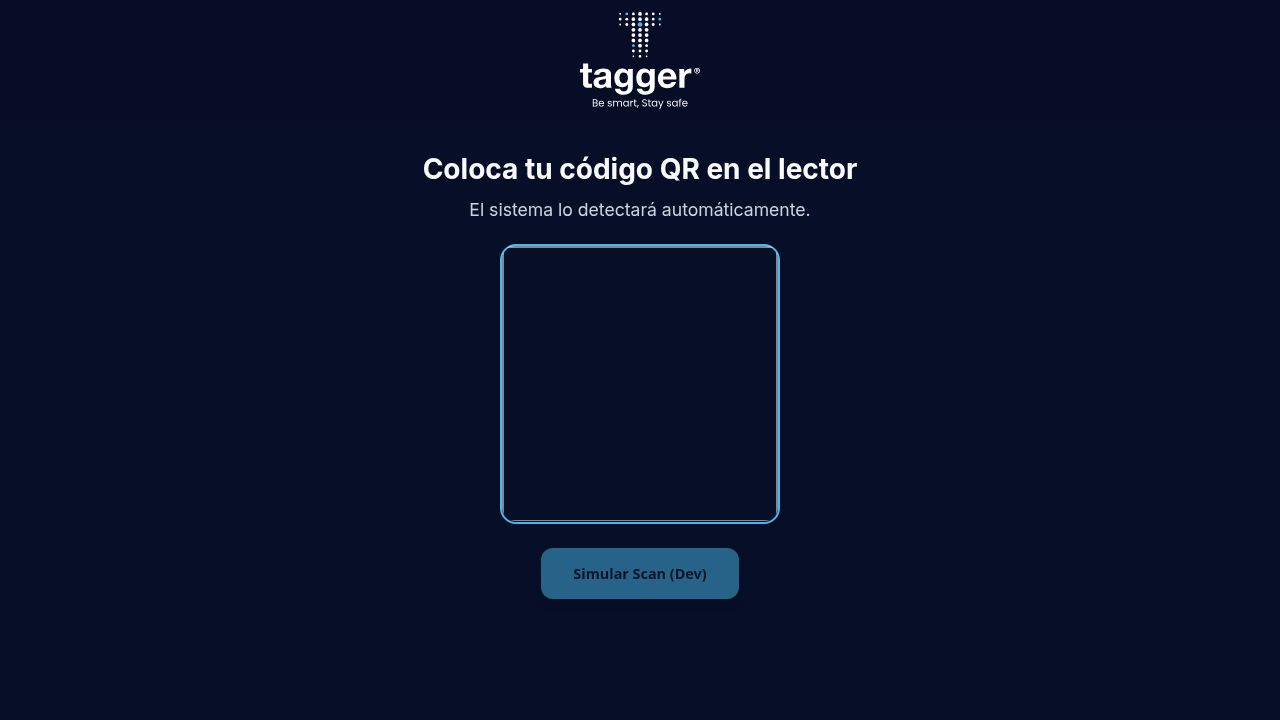
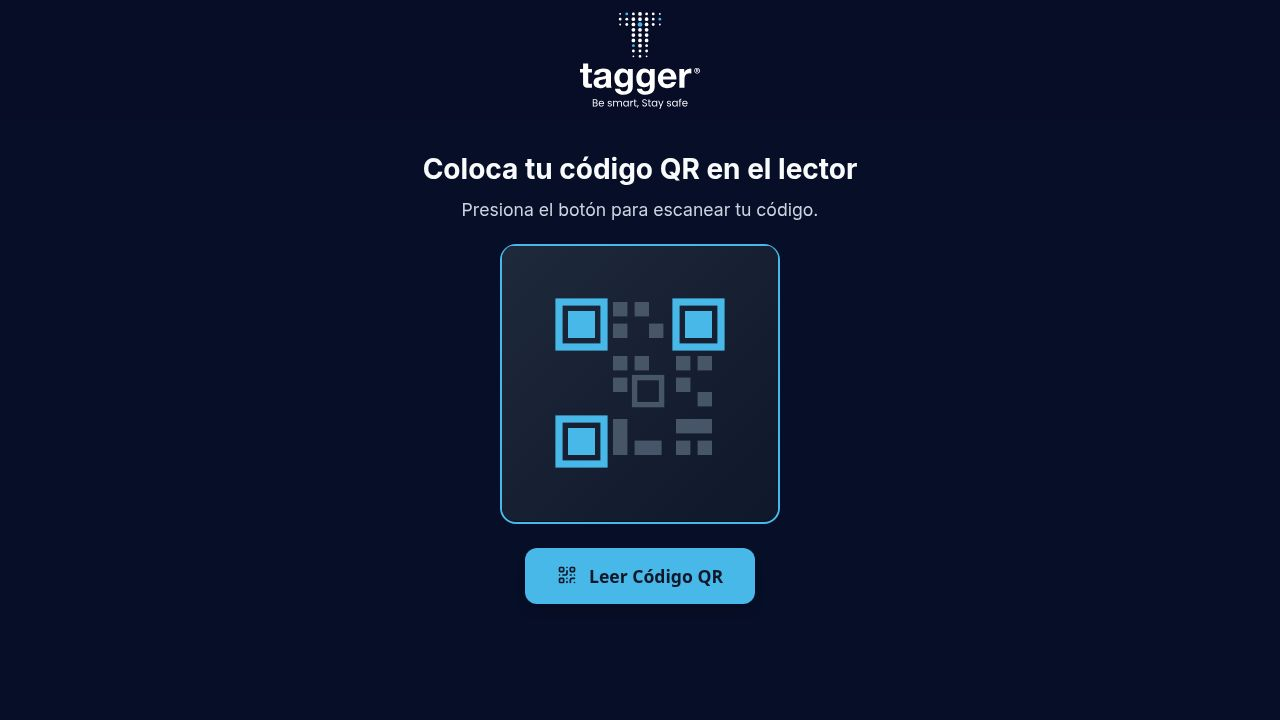
Change QR code scanning to activate on button press with animation
Update kiosk component to remove continuous camera stream, introduce a QR code placeholder image, rename the button to "Leer Código QR", and add CSS animations for a transition effect when the camera is activated.

Replit-Commit-Author: Agent
Replit-Commit-Session-Id: 97bae9fa-3572-461a-b3a7-dbd0880d3fd3
Replit-Commit-Checkpoint-Type: full_checkpoint
Replit-Commit-Event-Id: c3088cfc-43bf-4db1-bf72-473c1baa7b77
Replit-Commit-Screenshot-Url: https://storage.googleapis.com/screenshot-production-us-central1/ebeb5413-954b-4330-ba81-3f35597b957a/97bae9fa-3572-461a-b3a7-dbd0880d3fd3/ZLIsPjt
Replit-Helium-Checkpoint-Created: true

Changed region(s): [[0.375, 0.3361, 0.5938, 0.6722], [0.4062, 0.7639, 0.5938, 0.8556], [0.3438, 0.275, 0.6562, 0.3056]]

diff --git a/client/src/app/kiosk/kiosk.component.ts b/client/src/app/kiosk/kiosk.component.ts
@@ -16,17 +16,50 @@ type KioskState = 'qrIdle' | 'qrValidando' | 'qrValidado' | 'esperandoIdentifica
         <!-- Estado Inicial (Idle) -->
         <div id="s1-initial" class="container" *ngIf="currentState === 'qrIdle'">
             <h1>Coloca tu código QR en el lector</h1>
-            <h2>El sistema lo detectará automáticamente.</h2>
+            <h2>Presiona el botón para escanear tu código.</h2>
             
-            <div class="camera-preview" style="width: 280px; height: 280px; border-radius: 1rem; overflow: hidden; margin-bottom: 1rem; border: 2px solid #48b8e9; position: relative;">
-                 <video #videoElement [style.display]="'block'" style="width: 100%; height: 100%; object-fit: cover;"></video>
-                 <div class="scan-overlay" style="position: absolute; inset: 0; border: 2px solid rgba(255,255,255,0.5);"></div>
+            <div class="qr-preview-container" style="width: 280px; height: 280px; border-radius: 1rem; overflow: hidden; margin-bottom: 1rem; border: 2px solid #48b8e9; position: relative;">
+                 <!-- Imagen placeholder de QR -->
+                 <div class="qr-placeholder" [class.fade-out]="qrCameraActive" style="width: 100%; height: 100%; display: flex; align-items: center; justify-content: center; background: linear-gradient(135deg, #1e293b 0%, #0f172a 100%); transition: opacity 0.4s ease-out;">
+                   <svg viewBox="0 0 100 100" style="width: 180px; height: 180px;">
+                     <!-- Esquinas azules -->
+                     <rect x="5" y="5" width="25" height="25" fill="none" stroke="#48b8e9" stroke-width="4"/>
+                     <rect x="10" y="10" width="15" height="15" fill="#48b8e9"/>
+                     <rect x="70" y="5" width="25" height="25" fill="none" stroke="#48b8e9" stroke-width="4"/>
+                     <rect x="75" y="10" width="15" height="15" fill="#48b8e9"/>
+                     <rect x="5" y="70" width="25" height="25" fill="none" stroke="#48b8e9" stroke-width="4"/>
+                     <rect x="10" y="75" width="15" height="15" fill="#48b8e9"/>
+                     <!-- Patrón central gris -->
+                     <rect x="35" y="5" width="8" height="8" fill="#475569"/>
+                     <rect x="47" y="5" width="8" height="8" fill="#475569"/>
+                     <rect x="35" y="17" width="8" height="8" fill="#475569"/>
+                     <rect x="55" y="17" width="8" height="8" fill="#475569"/>
+                     <rect x="35" y="35" width="8" height="8" fill="#475569"/>
+                     <rect x="47" y="35" width="8" height="8" fill="#475569"/>
+                     <rect x="35" y="47" width="8" height="8" fill="#475569"/>
+                     <rect x="47" y="47" width="15" height="15" fill="none" stroke="#475569" stroke-width="3"/>
+                     <rect x="70" y="35" width="8" height="8" fill="#475569"/>
+                     <rect x="82" y="35" width="8" height="8" fill="#475569"/>
+                     <rect x="70" y="47" width="8" height="8" fill="#475569"/>
+                     <rect x="82" y="55" width="8" height="8" fill="#475569"/>
+                     <rect x="70" y="70" width="20" height="8" fill="#475569"/>
+                     <rect x="70" y="82" width="8" height="8" fill="#475569"/>
+                     <rect x="82" y="82" width="8" height="8" fill="#475569"/>
+                     <rect x="35" y="70" width="8" height="20" fill="#475569"/>
+                     <rect x="47" y="82" width="15" height="8" fill="#475569"/>
+                   </svg>
+                 </div>
+                 <!-- Video de cámara -->
+                 <video #videoElement [class.fade-in-camera]="qrCameraActive" [style.display]="qrCameraActive ? 'block' : 'none'" style="width: 100%; height: 100%; object-fit: cover; position: absolute; top: 0; left: 0; opacity: 0; transition: opacity 0.4s ease-in;"></video>
+                 <div class="scan-overlay" *ngIf="qrCameraActive" style="position: absolute; inset: 0; border: 2px solid rgba(255,255,255,0.5);"></div>
             </div>
             <canvas #canvasElement hidden></canvas>
 
-            <button class="btn" (click)="simulateQrScan()" style="margin-top: 0.5rem; opacity: 0.5; font-size: 0.9rem;" data-testid="button-simulate-qr">
-                Simular Scan (Dev)
+            <button class="btn" (click)="startQrScan()" *ngIf="!qrCameraActive" style="margin-top: 0.5rem;" data-testid="button-read-qr">
+                <svg width="20" height="20" viewBox="0 0 24 24" fill="none" stroke="currentColor" stroke-width="2" stroke-linecap="round" stroke-linejoin="round"><rect width="5" height="5" x="3" y="3" rx="1"/><rect width="5" height="5" x="16" y="3" rx="1"/><rect width="5" height="5" x="3" y="16" rx="1"/><path d="M21 16h-3a2 2 0 0 0-2 2v3"/><path d="M21 21v.01"/><path d="M12 7v3a2 2 0 0 1-2 2H7"/><path d="M3 12h.01"/><path d="M12 3h.01"/><path d="M12 16v.01"/><path d="M16 12h1"/><path d="M21 12v.01"/><path d="M12 21v-1"/></svg>
+                Leer Código QR
             </button>
+            <p *ngIf="qrCameraActive" style="margin-top: 0.5rem; color: #94a3b8; font-size: 0.9rem;">Escaneando...</p>
         </div>
 
         <!-- Estado Validando -->
@@ -167,7 +200,15 @@ type KioskState = 'qrIdle' | 'qrValidando' | 'qrValidado' | 'esperandoIdentifica
         </div>
     </section>
   `,
-  styles: []
+  styles: [`
+    .qr-placeholder.fade-out {
+      opacity: 0;
+      pointer-events: none;
+    }
+    .fade-in-camera {
+      opacity: 1 !important;
+    }
+  `]
 })
 export class KioskComponent implements OnInit, OnDestroy {
   private readonly accessService = inject(AccessService);
@@ -177,6 +218,7 @@ export class KioskComponent implements OnInit, OnDestroy {
   visitorData: VisitorData | null = null;
   ineData: IneData | null = null;
   errorMessage: string = '';
+  qrCameraActive: boolean = false;
   
   @ViewChild('videoElement') videoElement!: ElementRef<HTMLVideoElement>;
   @ViewChild('canvasElement') canvasElement!: ElementRef<HTMLCanvasElement>;
@@ -196,16 +238,19 @@ export class KioskComponent implements OnInit, OnDestroy {
 
   private async loadCameraConfig() {
     this.accessService.getCameraConfig().subscribe({
-      next: async (config) => {
+      next: (config) => {
         this.cameraConfig = config;
         console.log('[Kiosk] Configuración de cámaras:', config);
-        await this.startCamera();
       },
-      error: async (err) => {
+      error: (err) => {
         console.error('[Kiosk] Error cargando config de cámaras:', err);
-        await this.startCamera();
       }
     });
+  }
+
+  async startQrScan() {
+    this.qrCameraActive = true;
+    await this.startCamera();
   }
 
   private async enumerateCameras() {
@@ -540,10 +585,7 @@ export class KioskComponent implements OnInit, OnDestroy {
     this.visitorData = null;
     this.ineData = null;
     this.errorMessage = '';
-    
-    setTimeout(() => {
-      this.startCamera();
-    }, 100);
+    this.qrCameraActive = false;
   }
 
   formatDate(dateStr: string | undefined): string {
